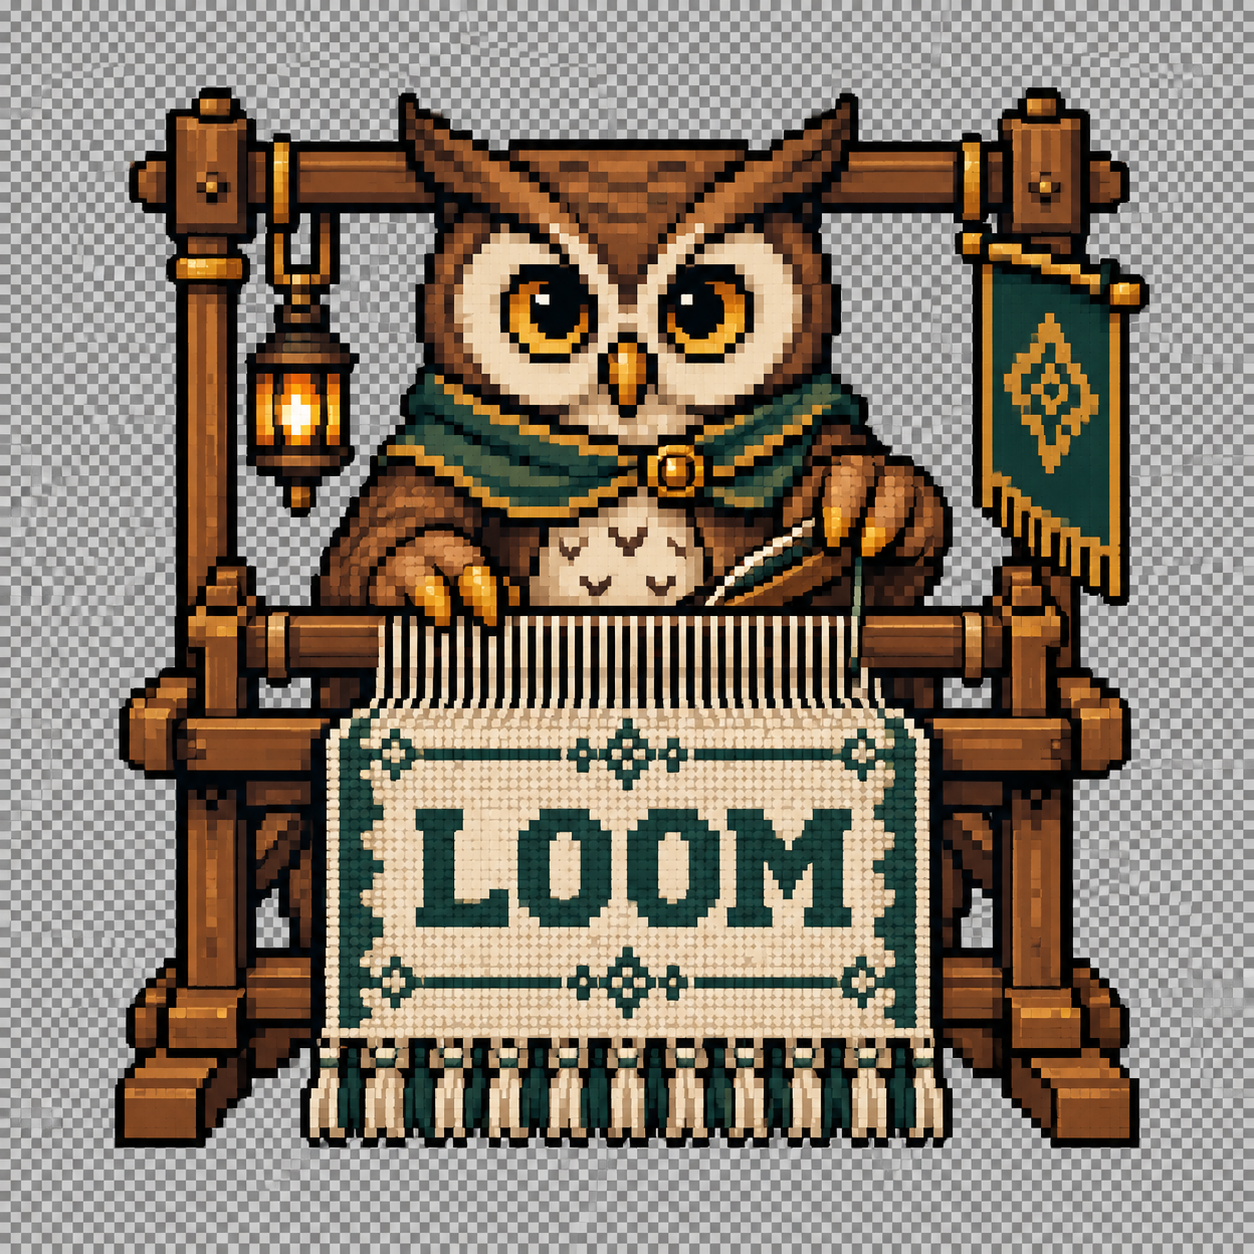
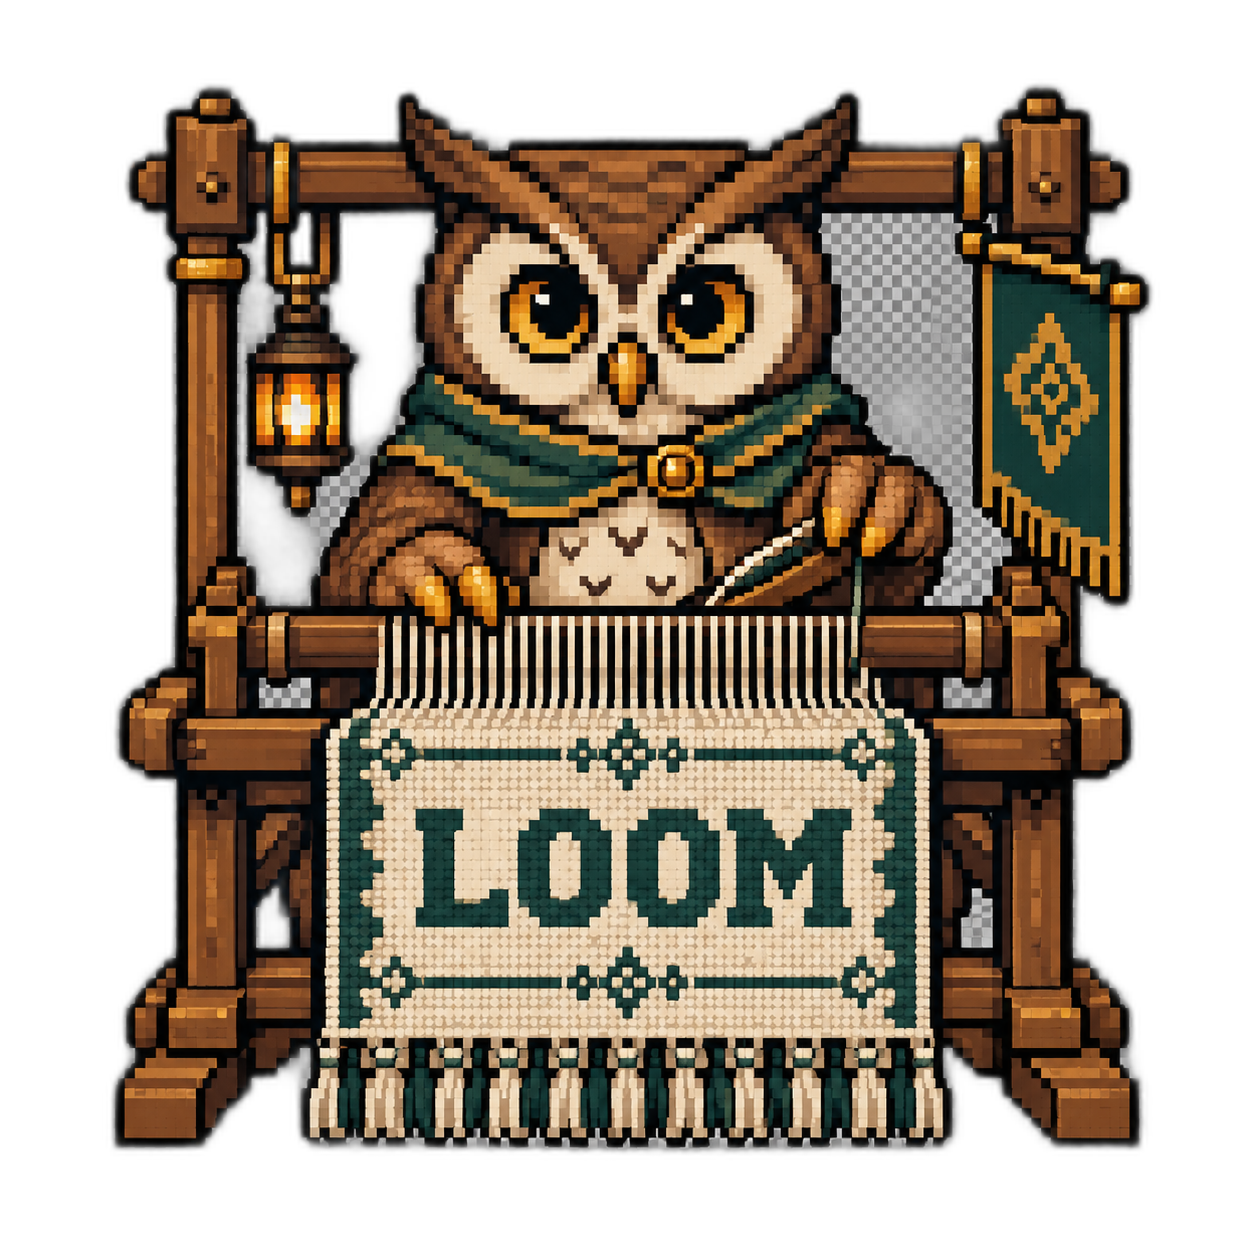
Remove mascot background and resize in README

diff --git a/Readme.md b/Readme.md
@@ -1,6 +1,8 @@
 # Loom
 
-![Loom Mascot](docs/assets/mascot.png)
+<p align="center">
+  <img src="docs/assets/mascot.png" alt="Loom Mascot" width="220" />
+</p>
 
 - Loom is a portable contract package for coding agents. Agents write the code. Contracts stay beside it.
 - The name comes from handlooms. A loom does the repetitive work, but the weaver chooses the pattern, checks the tension, and fixes defects before they become part of the cloth. Coding agents are similar. They can produce a lot of code quickly, but they cannot know which trade-offs matter unless an engineer states them. Contracts record those decisions and give the agent something concrete to follow and check.
